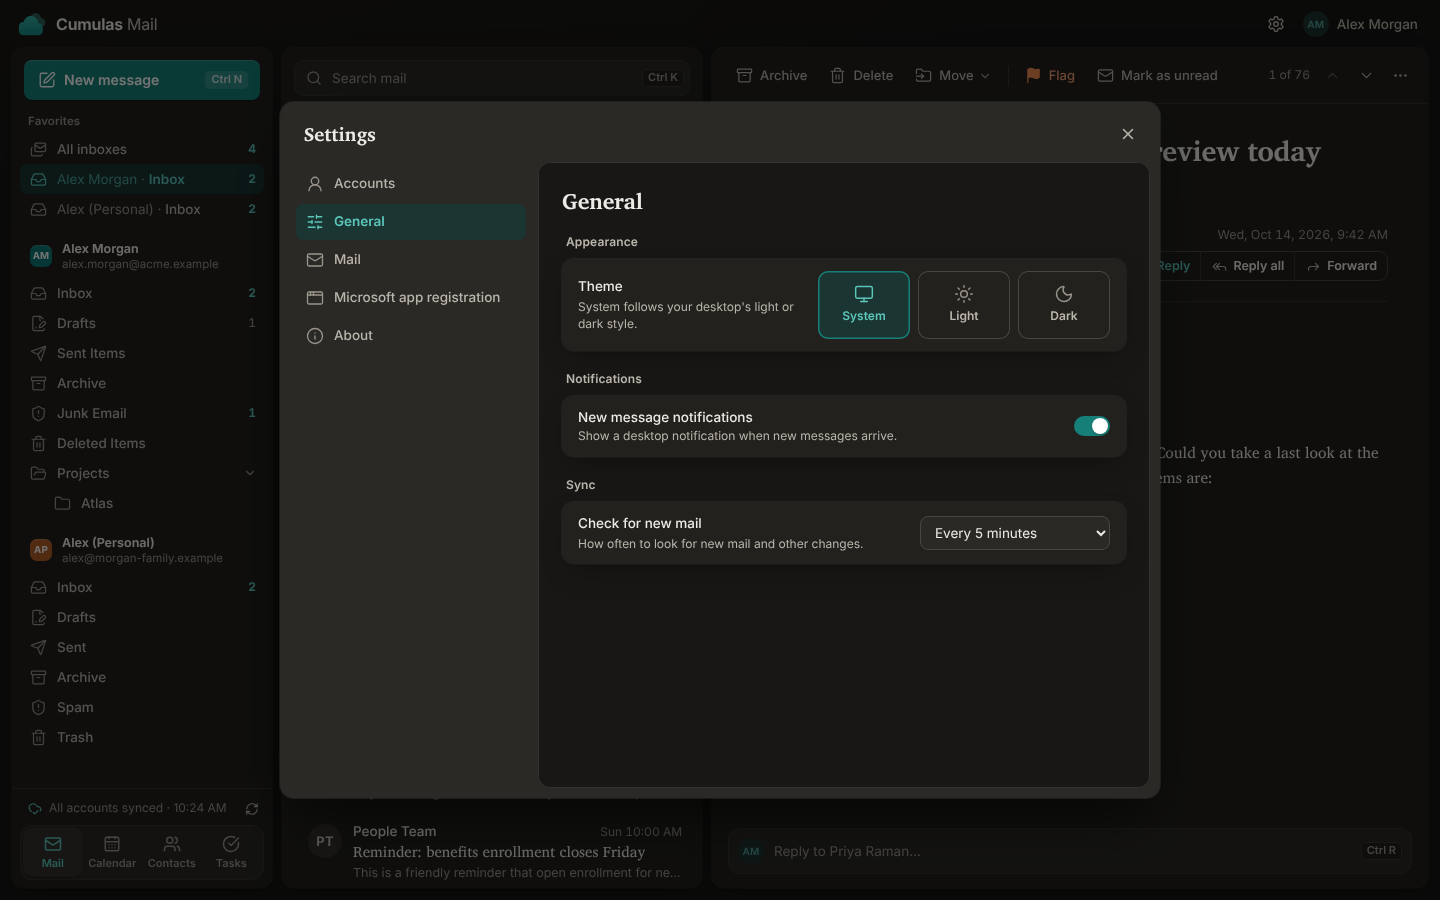
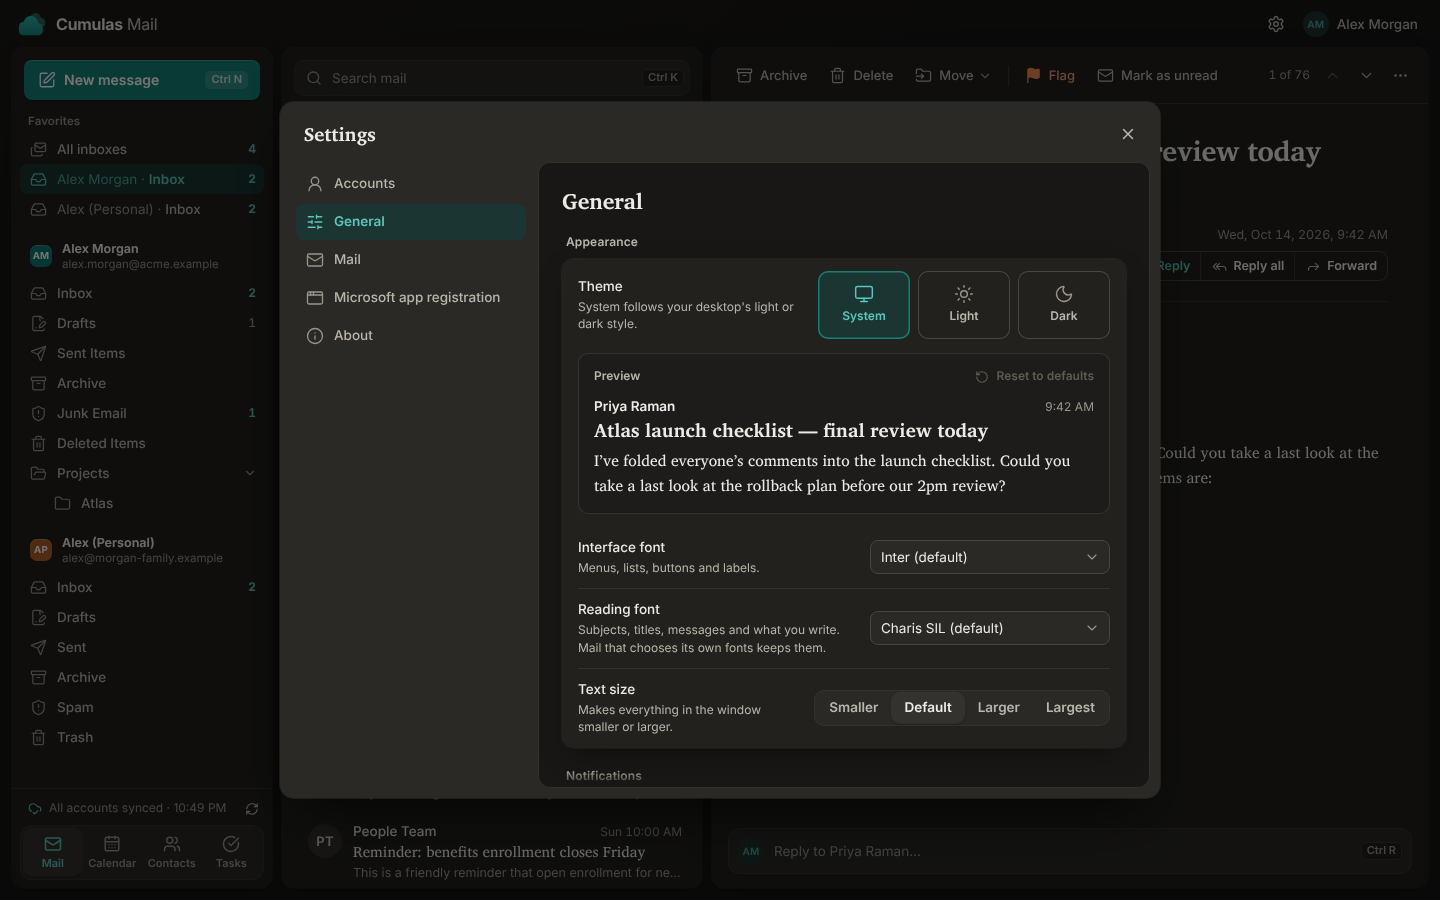
Settings: open each section at its top; refresh the General screenshots
The sections shared one scrolling panel, so a section opened at the
previous one's scroll position. With Appearance, General is taller than
the panel, so it showed: it now opens at its top.

Claude-Session: https://claude.ai/code/session_01AHi2wzzMsw64bPY9ZRUbF9

diff --git a/src/modules/settings/SettingsDialog.tsx b/src/modules/settings/SettingsDialog.tsx
@@ -123,7 +123,8 @@ function SettingsBody({
           <h3 className="settings__title pane-title">{current.label}</h3>
           <SaveIndicator />
         </div>
-        <div className="settings__content">
+        {/* Keyed, so each section opens scrolled to its top. */}
+        <div key={section} className="settings__content">
           {section === "accounts" && <AccountsSection onRemove={onRemoveAccount} />}
           {section === "general" && <GeneralSection />}
           {section === "mail" && <MailSection />}
